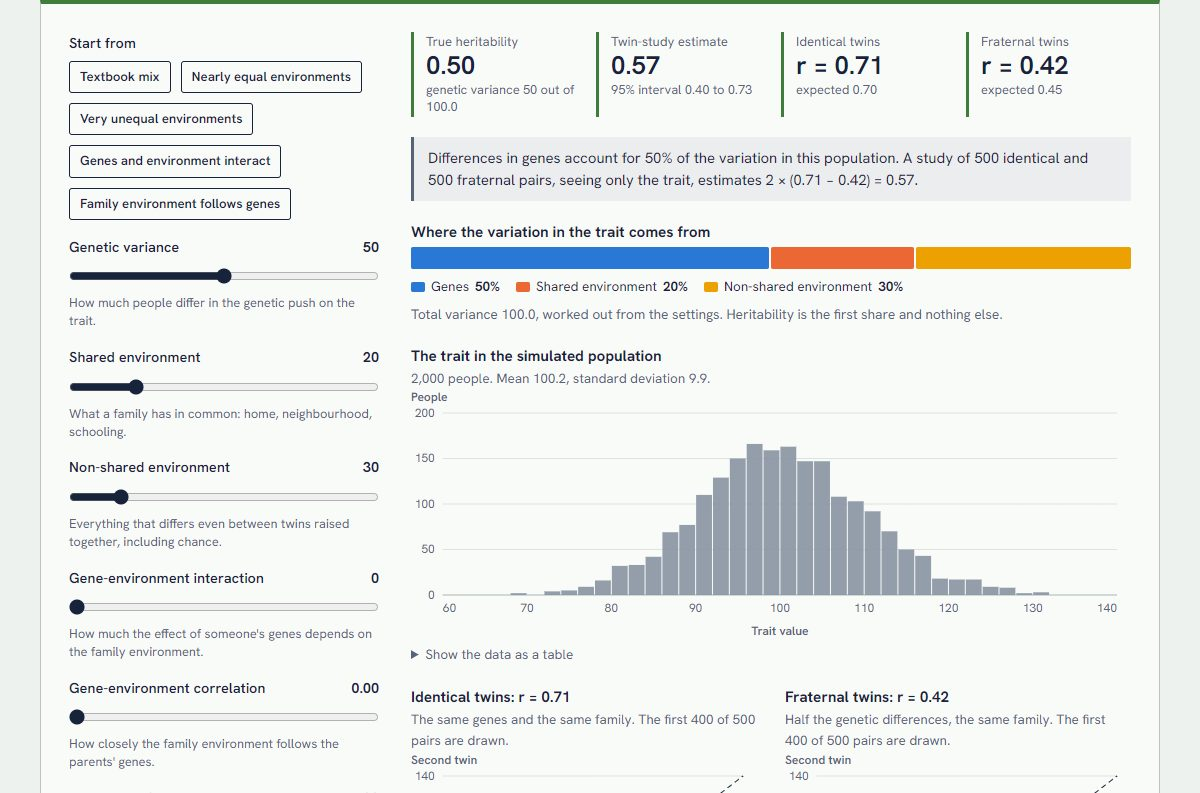
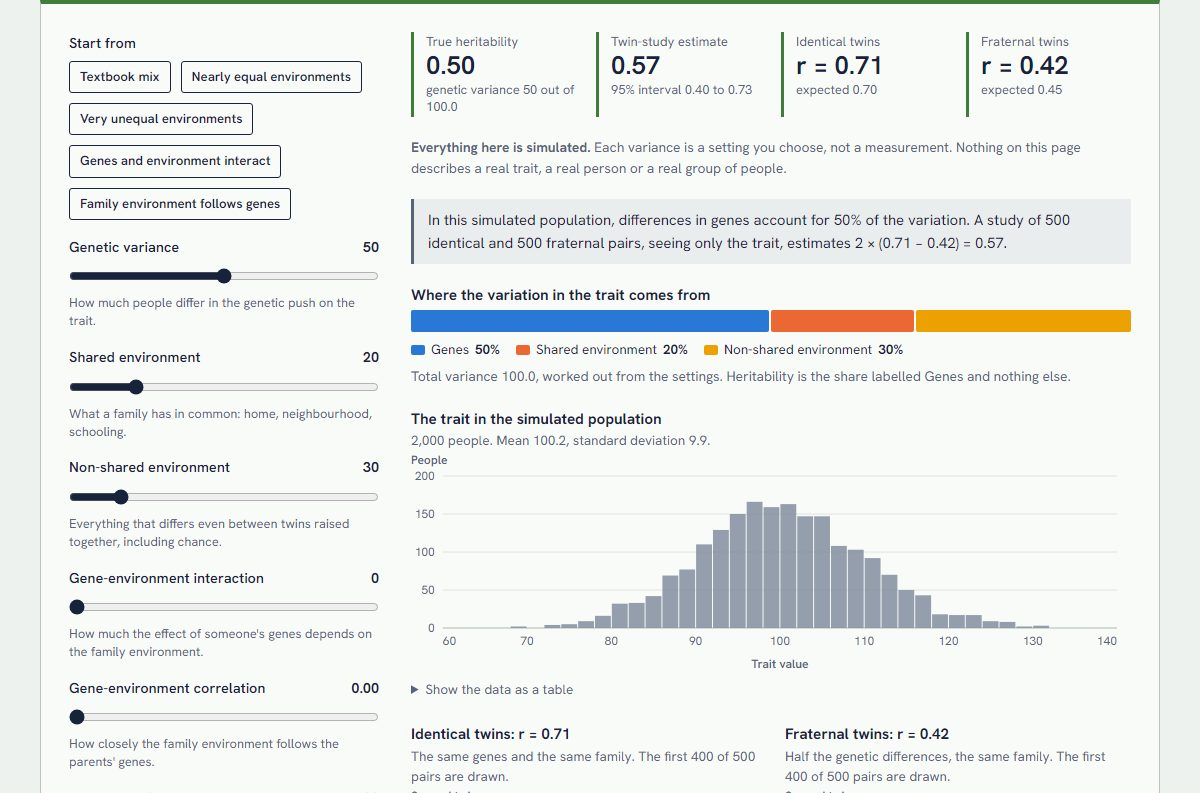
Review project 26: state that everything is simulated, phone table, exact notes

diff --git a/365projects/26/index.html b/365projects/26/index.html
@@ -15,7 +15,9 @@
     .split-bar span { display: block; min-width: 2px; border-radius: 2px; }
     .stack { display: grid; grid-template-columns: minmax(0, 1fr); gap: 10px; }
     .stack:empty { display: none; }
-    .people th, .people th.num { white-space: normal; vertical-align: bottom; line-height: 1.25; }
+    .people td:first-child { font-weight: 600; }
+    .people tbody tr:last-child td { border-top: 1.5px solid var(--ink); font-weight: 650; }
+    @media (max-width: 480px) { .people th, .people td { padding: 6px 4px; font-size: 0.84rem; } }
     .soil { display: grid; grid-template-columns: minmax(0, 1fr); gap: 16px; padding-top: 24px; border-top: 1px solid var(--rule); }
     .soil > p { max-width: 86ch; }
   </style>
@@ -38,10 +40,10 @@
 
     <section class="p-sec">
       <h2>The idea</h2>
-      <p>Francis Galton set "nature and nurture" side by side in the 1870s and suggested that twins could be used to tell them apart. The question most people then want to ask is how much of a trait is due to genes and how much to environment. For one person the question has no answer. Someone's height is not four parts genes and one part food, any more than the area of a rectangle is four parts length and one part width: both are needed for there to be any height at all. What can be asked is a question about differences. Across a population, how much of the variation in a trait goes with variation in genes? That share is called heritability, and it comes from R. A. Fisher's 1918 paper, which introduced the word variance and the idea of dividing it into parts with different causes.</p>
+      <p>Francis Galton set "nature and nurture" side by side in the 1870s and suggested that twins could be used to tell them apart. The question most people then want to ask is how much of a trait is due to genes and how much to environment. For one person the question has no answer. Someone's height is not four parts genes and one part food, any more than the area of a rectangle is four parts length and one part width: both are needed for there to be any height at all. What can be asked is a question about differences. Across a population, how much of the variation in a trait goes with variation in genes? That share is called heritability. The idea behind it comes from R. A. Fisher's 1918 paper, which introduced the word variance and the practice of dividing it into parts with different causes.</p>
       <p>The classic way to estimate it uses two kinds of twins. Identical twins have the same genes. Fraternal twins share, on average, half of the genetic differences that vary between people. If both kinds share their family surroundings to the same degree, then whatever makes identical twins more alike than fraternal twins must be genetic, and doubling the gap between the two correlations gives the heritability. A large 2015 review of fifty years of such studies put the average across human traits at about a half.</p>
-      <p>The number is real, and it is narrow, and it is misread in at least four ways. It is not a property of a trait but of a population in a particular range of environments: make environments more alike and heritability rises, make them more unequal and it falls, with no gene altered. It describes the spread across people, not the make-up of any one of them. It says nothing about why two groups differ on average, which is Richard Lewontin's point about seed sown in two soils: inside each field the differences between plants can be almost wholly genetic while the difference between the fields is wholly the soil. And it is not a measure of how fixed a trait is. Phenylketonuria is caused by a single gene, and a diet started in infancy prevents most of the harm. Height is among the most heritable of human traits, yet average heights in many countries rose by several centimetres over the twentieth century as food and health improved.</p>
-      <p>These points matter outside the classroom because heritability figures are quoted in arguments about schooling, health, inequality and differences between groups, often as if they settled what can be changed or who is responsible. They do not, in either direction: a high figure does not show that a gap between groups is genetic, and it does not show that it is environmental. This page takes no position on any real trait. It builds populations where the truth is known, so that what a heritability estimate can and cannot recover is visible.</p>
+      <p>The number is real, and it is narrow, and it is misread in at least four ways. It is not a property of a trait but of a population in a particular range of environments: make environments more alike and heritability rises, make them more unequal and it falls, with no gene altered. It describes the spread across people, not the make-up of any one of them. It says nothing about why two groups differ on average, which is Richard Lewontin's point about two handfuls of seed from one sack, one raised on a rich diet and one on a poor one (told on this page as two fields): inside each batch the differences between plants can be almost wholly genetic while the difference between the batches is wholly the feeding. And it is not a measure of how fixed a trait is. Phenylketonuria is caused by a single gene, and a diet started in infancy prevents most of the harm. Height is among the most heritable of human traits, yet average heights in many countries rose by several centimetres over the twentieth century as food and health improved.</p>
+      <p>These points matter outside the classroom because heritability figures are quoted in arguments about schooling, health, inequality and differences between groups, often as if they settled what can be changed or who is responsible. They do not, in either direction: a high figure does not show that a gap between groups is genetic, and it does not show that it is environmental. This page takes no position on any real trait or any real group. It builds made-up populations where the truth is known, so that what a heritability estimate can and cannot recover is visible.</p>
     </section>
 
     <section class="p-sec">
@@ -56,27 +58,29 @@
 
       <h3>The true decomposition</h3>
       <p>Because the page made the population, it knows where the variance comes from without estimating anything:</p>
-      <p class="eq"><var>V</var><sub>P</sub> = <var>V</var><sub>A</sub> + <var>V</var><sub>C</sub> + <var>V</var><sub>E</sub> + <var>V</var><sub>I</sub>(1 + <var>ρ</var>²) + 2<var>ρ</var>√(<var>V</var><sub>A</sub><var>V</var><sub>C</sub>)</p>
+      <p class="eq"><var>V</var><sub>P</sub> = <var>V</var><sub>A</sub> + <var>V</var><sub>C</sub> + <var>V</var><sub>E</sub><br>&nbsp; &nbsp; + <var>V</var><sub>I</sub>(1 + <var>ρ</var>²) + 2<var>ρ</var>√(<var>V</var><sub>A</sub><var>V</var><sub>C</sub>)</p>
       <p class="eq"><var>h</var>² = <var>V</var><sub>A</sub> / <var>V</var><sub>P</sub></p>
       <p>The fourth term is the variance of the interaction and the fifth is twice the covariance of genes and family environment. Neither is "genetic" or "environmental": the bar in the tool shows them as their own segments. With both set to zero the bar has three parts and heritability is the first.</p>
 
       <h3>The twin study</h3>
       <p>The simulated researcher sees only trait values for <var>n</var> identical and <var>n</var> fraternal pairs. For each kind the page computes the intraclass correlation, which treats the two twins of a pair symmetrically:</p>
-      <p class="eq"><var>r</var> = Σ (<var>x</var><sub>1</sub> − <var>x̄</var>)(<var>x</var><sub>2</sub> − <var>x̄</var>) / ( ½ Σ [ (<var>x</var><sub>1</sub> − <var>x̄</var>)² + (<var>x</var><sub>2</sub> − <var>x̄</var>)² ] )</p>
+      <p class="eq"><var>r</var> = Σ (<var>x</var><sub>1</sub> − <var>x̄</var>)(<var>x</var><sub>2</sub> − <var>x̄</var>)<br>&nbsp; &nbsp; ÷ ( ½ Σ [ (<var>x</var><sub>1</sub> − <var>x̄</var>)² + (<var>x</var><sub>2</sub> − <var>x̄</var>)² ] )</p>
       <p>with <var>x̄</var> the mean of all twins of that kind. In the plain model identical twins share <var>G</var> and <var>C</var>, so their expected correlation is (<var>V</var><sub>A</sub> + <var>V</var><sub>C</sub>)/<var>V</var><sub>P</sub>, and fraternal twins share half of the genetic variance, giving (½<var>V</var><sub>A</sub> + <var>V</var><sub>C</sub>)/<var>V</var><sub>P</sub>. Falconer's formulas follow by subtraction:</p>
-      <p class="eq"><var>h</var>² = 2(<var>r</var><sub>MZ</sub> − <var>r</var><sub>DZ</sub>) &nbsp;&nbsp; <var>c</var>² = 2<var>r</var><sub>DZ</sub> − <var>r</var><sub>MZ</sub> &nbsp;&nbsp; <var>e</var>² = 1 − <var>r</var><sub>MZ</sub></p>
-      <p>The interval shown is the estimate plus or minus 1.96 standard errors, taking each correlation to have variance (1 − <var>r</var>²)²/<var>n</var>, so the standard error of <var>h</var>² is 2√[ ((1 − <var>r</var><sub>MZ</sub>²)² + (1 − <var>r</var><sub>DZ</sub>²)²) / <var>n</var> ]. A test compares this with the spread of the estimate across 400 simulated studies. The doubling is what makes twin estimates noisy: with 500 pairs of each kind the interval is about 0.17 either side.</p>
+      <p class="eq"><var>h</var>² = 2(<var>r</var><sub>MZ</sub> − <var>r</var><sub>DZ</sub>)<br><var>c</var>² = 2<var>r</var><sub>DZ</sub> − <var>r</var><sub>MZ</sub><br><var>e</var>² = 1 − <var>r</var><sub>MZ</sub></p>
+      <p>The interval shown is the estimate plus or minus 1.96 standard errors, taking each correlation to have variance (1 − <var>r</var>²)²/<var>n</var>, so the standard error of <var>h</var>² is 2√[ ((1 − <var>r</var><sub>MZ</sub>²)² + (1 − <var>r</var><sub>DZ</sub>²)²) / <var>n</var> ]. A test compares this with the spread of the estimate across 400 simulated studies. The interval is a normal approximation, so in a small study it can run below 0 or above 1. The doubling is what makes twin estimates noisy: with 500 pairs of each kind the interval is about 0.17 either side.</p>
 
       <h3>What interaction and correlation do to the estimate</h3>
-      <p>Working the same subtraction through the full model gives</p>
-      <p class="eq">2(<var>r</var><sub>MZ</sub> − <var>r</var><sub>DZ</sub>) → (<var>V</var><sub>A</sub> + <var>V</var><sub>I</sub>) / <var>V</var><sub>P</sub></p>
-      <p>Identical twins share the interaction completely and fraternal twins share about half of it, which is the pattern genes themselves show, so the twin method counts interaction with the shared environment as genetic. The covariance term is shared equally by both kinds of twin and drops out of the subtraction, to reappear in the estimate of shared environment. The tool states both mismatches when they occur, and the tests check the algebra against simulated studies of 50,000 pairs.</p>
+      <p>In the full model identical twins share everything except <var>E</var>, and fraternal twins share half of <var>V</var><sub>A</sub>, all of <var>V</var><sub>C</sub>, all of the covariance, and <var>V</var><sub>I</sub>(½ + <var>ρ</var>²) of the interaction variance <var>V</var><sub>I</sub>(1 + <var>ρ</var>²):</p>
+      <p class="eq"><var>r</var><sub>MZ</sub> = (<var>V</var><sub>P</sub> − <var>V</var><sub>E</sub>) / <var>V</var><sub>P</sub><br><var>r</var><sub>DZ</sub> = ( ½<var>V</var><sub>A</sub> + <var>V</var><sub>C</sub> + 2<var>ρ</var>√(<var>V</var><sub>A</sub><var>V</var><sub>C</sub>)<br>&nbsp; &nbsp; + <var>V</var><sub>I</sub>(½ + <var>ρ</var>²) ) / <var>V</var><sub>P</sub></p>
+      <p>Working the same subtractions through gives what the twin estimates settle on as the study grows:</p>
+      <p class="eq">2(<var>r</var><sub>MZ</sub> − <var>r</var><sub>DZ</sub>) → (<var>V</var><sub>A</sub> + <var>V</var><sub>I</sub>) / <var>V</var><sub>P</sub><br>2<var>r</var><sub>DZ</sub> − <var>r</var><sub>MZ</sub> → ( <var>V</var><sub>C</sub> + 2<var>ρ</var>√(<var>V</var><sub>A</sub><var>V</var><sub>C</sub>)<br>&nbsp; &nbsp; + <var>ρ</var>²<var>V</var><sub>I</sub> ) / <var>V</var><sub>P</sub></p>
+      <p>Identical twins share the interaction completely and fraternal twins share half of it when <var>ρ</var> is zero, which is the pattern genes themselves show, so the twin method counts interaction with the shared environment as genetic. The covariance term is shared equally by both kinds of twin and drops out of the first subtraction, to reappear in the estimate of shared environment, and when <var>ρ</var> is above zero a part <var>ρ</var>²<var>V</var><sub>I</sub> of the interaction goes there with it. This agrees with the standard account of the twin design: in Purcell's summary, interaction between genes and shared environment "acts like" genes and correlation between them "acts like" shared environment. The tool states both mismatches when they occur, and the tests check the algebra against simulated studies of 50,000 pairs.</p>
 
       <h3>The environment chart</h3>
       <p>The line plots <var>h</var>² = <var>V</var><sub>A</sub>/<var>V</var><sub>P</sub> as the non-shared environmental variance runs from 0 to 200 with every other setting held where it is. The dot is the current population. Nothing genetic changes along the line.</p>
 
       <h3>The two fields</h3>
-      <p>Two thousand plants grow in each field. A plant's height is 100 plus a genetic value with variance <var>h</var>² × 100 plus a soil-and-chance value with variance (1 − <var>h</var>²) × 100, and plants in the poor field are shorter on average by the chosen gap. The last slider decides how the gap is caused: a share <var>s</var> of it is subtracted from the genetic values of the poor field's seed and the rest from its environment. The heights are the same numbers whatever <var>s</var> is, since only the sum is ever observed, and so are the heritabilities inside each field. With <var>s</var> at zero this is Lewontin's example: the same seed in both fields.</p>
+      <p>Two thousand plants grow in each field. A plant's height is 100 plus a genetic value with variance <var>h</var>² × 100 plus a soil-and-chance value with variance (1 − <var>h</var>²) × 100, and plants in the poor field are shorter on average by the chosen gap. The last slider decides how the gap is caused: a share <var>s</var> of it is subtracted from the genetic values of the poor field's seed and the rest from its environment. The heights are the same numbers whatever <var>s</var> is, since only the sum is ever observed, and so are the heritabilities inside each field. To keep chance out of the comparison, the plants in the poor field are given the same genetic values as the plants in the rich field before the shift, so the genetic part of the gap is exactly <var>s</var> times the gap. With <var>s</var> at zero this is Lewontin's example, with fields standing in for his two batches of seed raised on different nutrients. In his version every plant in a batch was fed alike, which is the slider at 1.00.</p>
     </section>
 
     <section class="p-sec">
@@ -84,7 +88,7 @@
       <ul>
         <li><strong>Anything about a real trait.</strong> Every variance here is a slider. The page shows what follows from a set of assumptions, not what is true of height, health, schooling or anything else in people.</li>
         <li><strong>How much of one person's trait is genetic.</strong> Heritability is a ratio of variances across a population. The table of five people shows why it does not carry over: in one person the pushes can cancel, and with interaction there is no way to split them at all.</li>
-        <li><strong>Why two groups differ.</strong> Heritability inside groups is compatible with a gap between them that is entirely environmental, entirely genetic, or any mixture. The two-field panel produces identical data in all three cases.</li>
+        <li><strong>Why two groups differ.</strong> Heritability inside groups is compatible with a gap between them that is entirely environmental, entirely genetic, or any mixture. The two-field panel produces identical data in all three cases. It is a model of plants, in which the cause of the gap is a slider, and it is not evidence about any difference between groups of people.</li>
         <li><strong>Whether a trait can be changed.</strong> The figure describes the environments that happened to exist in the population measured. It is silent about environments nobody in it experienced, such as a new diet, treatment or school.</li>
         <li><strong>Whether real twin studies meet their assumptions.</strong> Here identical and fraternal twins share their surroundings equally, parents pair at random and genetic effects add up, because the simulation was written that way. In real data each of these can fail and bias the estimate, and none can be checked from twin correlations alone.</li>
         <li><strong>What the environment is.</strong> "Shared" and "non-shared" are labels for variance, not causes. The non-shared part includes measurement error and chance in development. A variance component does not name anything that could be acted on.</li>
@@ -107,14 +111,16 @@
       <h2>Sources</h2>
       <ul class="refs">
         <li>Galton, F. (1874). <em>English Men of Science: Their Nature and Nurture</em>. Macmillan.</li>
-        <li>Fisher, R. A. (1918). The correlation between relatives on the supposition of Mendelian inheritance. <em>Transactions of the Royal Society of Edinburgh</em>, 52, 399-433.</li>
+        <li>Galton, F. (1875). The history of twins, as a criterion of the relative powers of nature and nurture. <em>Fraser's Magazine</em>, 12, 566-576.</li>
+        <li>Fisher, R. A. (1918). The correlation between relatives on the supposition of Mendelian inheritance. <em>Transactions of the Royal Society of Edinburgh</em>, 52(2), 399-433.</li>
         <li>Falconer, D. S. (1960). <em>Introduction to Quantitative Genetics</em>. Oliver and Boyd.</li>
-        <li>Lewontin, R. C. (1970). Race and intelligence. <em>Bulletin of the Atomic Scientists</em>, 26(3). The source of the two-soils example.</li>
-        <li>Lewontin, R. C. (1974). The analysis of variance and the analysis of causes. <em>American Journal of Human Genetics</em>, 26, 400-411.</li>
+        <li>Lewontin, R. C. (1970). Race and intelligence. <em>Bulletin of the Atomic Scientists</em>, 26(3), 2-8. The source of the example of one stock of seed raised in a rich and a poor environment, retold here as two fields.</li>
+        <li>Lewontin, R. C. (1974). The analysis of variance and the analysis of causes. <em>American Journal of Human Genetics</em>, 26(3), 400-411.</li>
         <li>Purcell, S. (2002). Variance components models for gene-environment interaction in twin analysis. <em>Twin Research</em>, 5(6), 554-571.</li>
-        <li>Polderman, T. J. C., and others (2015). Meta-analysis of the heritability of human traits based on fifty years of twin studies. <em>Nature Genetics</em>, 47, 702-709.</li>
+        <li>Polderman, T. J. C., and others (2015). Meta-analysis of the heritability of human traits based on fifty years of twin studies. <em>Nature Genetics</em>, 47(7), 702-709. The source of "about a half": 49% across 17,804 traits.</li>
         <li>Turkheimer, E. (2000). Three laws of behavior genetics and what they mean. <em>Current Directions in Psychological Science</em>, 9(5), 160-164.</li>
-        <li>Visscher, P. M., Hill, W. G., and Wray, N. R. (2008). Heritability in the genomics era: concepts and misconceptions. <em>Nature Reviews Genetics</em>, 9, 255-266.</li>
+        <li>Visscher, P. M., Hill, W. G., and Wray, N. R. (2008). Heritability in the genomics era: concepts and misconceptions. <em>Nature Reviews Genetics</em>, 9(4), 255-266.</li>
+        <li>NCD Risk Factor Collaboration (2016). A century of trends in adult human height. <em>eLife</em>, 5, e13410.</li>
         <li>All data on this page are simulated in the browser.</li>
       </ul>
     </section>

diff --git a/365projects/26/app.js b/365projects/26/app.js
@@ -31,7 +31,7 @@ const sliders = {
   ve: vary("ve", "Non-shared environment", 200, "Everything that differs even between twins raised together, including chance."),
   vi: vary("vi", "Gene-environment interaction", 100, "How much the effect of someone's genes depends on the family environment."),
   rge: vary("rge", "Gene-environment correlation", RGE_MAX, "How closely the family environment follows the parents' genes.", 0.05, two),
-  pairs: vary("pairs", "Twin pairs of each kind", 5000, "The size of the simulated twin study.", 50),
+  pairs: vary("pairs", "Twin pairs of each kind", 5000, null, 50),
 };
 sliders.pairs.input.min = 50;
 const seedField = numberField({ label: "Seed", min: 0, max: 999999, step: 1, value: state.seed, hint: "The same seed always gives the same population." });
@@ -63,10 +63,12 @@ const message = el("div", { class: "stack", role: "status" });
 const splitBox = el("div");
 const histBox = el("div"), mzBox = el("div"), dzBox = el("div"), curveBox = el("div"), peopleBox = el("div", { class: "stack" });
 const body = el("div", { class: "out" }, splitBox, histBox, el("div", { class: "grid2" }, mzBox, dzBox), curveBox, peopleBox);
-const out = el("div", { class: "out" }, el("div", { class: "stats" }, sTrue.el, sEst.el, sMZ.el, sDZ.el), message, body);
+const caveat = el("p", { class: "small muted" }, el("strong", { text: "Everything here is simulated. " }),
+  "Each variance is a setting you choose, not a measurement. Nothing on this page describes a real trait, a real person or a real group of people.");
+const out = el("div", { class: "out" }, el("div", { class: "stats" }, sTrue.el, sEst.el, sMZ.el, sDZ.el), caveat, message, body);
 
 const soilSliders = [
-  slider({ label: "Heritability inside each field", min: 0.1, max: 1, step: 0.05, value: soil.h2, format: two, hint: "How far a plant's height follows its parents' within one field.", onInput: (v) => { soil.h2 = v; drawSoil(); } }),
+  slider({ label: "Heritability inside each field", min: 0.1, max: 1, step: 0.05, value: soil.h2, format: two, hint: "The share of the differences in height inside one field that goes with differences in the seed.", onInput: (v) => { soil.h2 = v; drawSoil(); } }),
   slider({ label: "Gap between the field averages", min: 0, max: 30, step: 1, value: soil.gap, format: (v) => `${v} units`, onInput: (v) => { soil.gap = v; drawSoil(); } }),
   slider({ label: "Share of the gap that comes from the seed", min: 0, max: 1, step: 0.05, value: soil.share, format: (v) => fmt.pct(v, 0), hint: "0% is Lewontin's case: the same seed in both fields, and the whole gap is soil.", onInput: (v) => { soil.share = v; drawSoil(); } }),
 ];
@@ -81,11 +83,11 @@ const soilPanel = el("div", { class: "soil" },
 
 $("#app").append(el("div", { class: "tool-grid" }, controls, out), soilPanel);
 
-const hist = chart(histBox, { series: [], height: 250 });
-const mzChart = chart(mzBox, { series: [], height: 300 });
-const dzChart = chart(dzBox, { series: [], height: 300 });
-const curveChart = chart(curveBox, { series: [], height: 270 });
-const soilChart = chart(soilBox, { series: [], height: 280 });
+const hist = chart(histBox, { series: [], height: 220 });
+const mzChart = chart(mzBox, { series: [], height: 260 });
+const dzChart = chart(dzBox, { series: [], height: 260 });
+const curveChart = chart(curveBox, { series: [], height: 240 });
+const soilChart = chart(soilBox, { series: [], height: 250 });
 
 /* ---------- the population and its twin study ---------- */
 function drawSplit(t) {
@@ -96,7 +98,7 @@ function drawSplit(t) {
     el("div", { class: "split-bar", role: "img", "aria-label": parts.map(text).join(", ") },
       parts.map((p) => el("span", { style: { width: `${(p.value / t.vp) * 100}%`, background: p.color }, title: text(p) }))),
     el("div", { class: "chart-legend" }, parts.map((p) => el("span", {}, el("i", { style: { background: p.color } }), `${p.label} `, el("strong", { text: fmt.pct(p.value / t.vp, 0) })))),
-    el("p", { class: "small muted", text: `Total variance ${fmt.num(t.vp, 1)}, worked out from the settings. Heritability is the first share and nothing else.` }));
+    el("p", { class: "small muted", text: `Total variance ${fmt.num(t.vp, 1)}, worked out from the settings. Heritability is the share labelled Genes and nothing else.` }));
 }
 
 function update() {
@@ -116,11 +118,14 @@ function update() {
   sMZ.set(`r = ${two(est.rMZ)}`, `expected ${two(t.rMZ)}`);
   sDZ.set(`r = ${two(est.rDZ)}`, `expected ${two(t.rDZ)}`);
 
-  const lines = [`Differences in genes account for ${fmt.pct(t.h2, 0)} of the variation in this population. A study of ${fmt.int(n)} identical and ${fmt.int(n)} fraternal pairs, seeing only the trait, estimates 2 × (${two(est.rMZ)} − ${two(est.rDZ)}) = ${two(est.h2)}.`];
+  const lines = [`In this simulated population, differences in genes account for ${fmt.pct(t.h2, 0)} of the variation. A study of ${fmt.int(n)} identical and ${fmt.int(n)} fraternal pairs, seeing only the trait, estimates 2 × (${two(est.rMZ)} − ${two(est.rDZ)}) = ${two(est.h2)}.`];
   if (est.h2 < 0 || est.h2 > 1) lines.push("An estimate outside 0 to 1 is sampling error, which is common in small twin studies. Add more pairs.");
+  else if (est.lo < 0 || est.hi > 1) lines.push("The interval is a rough one, the estimate plus or minus 1.96 standard errors, so it can run below 0 or above 1 although a share of variance cannot.");
   const notes = [note("", lines.join(" "))];
-  if (Math.abs(t.falconer - t.h2) > 0.005) notes.push(note("warn", `With unlimited twins the estimate would settle on ${two(t.falconer)}, not the true ${two(t.h2)}. Identical twins share the interaction in full and fraternal twins share about half of it, the same pattern as genes, so the twin method counts it as genetic.`));
-  if (state.rge > 0 && state.va > 0 && state.vc > 0) notes.push(note("warn", `${fmt.pct(t.components.covariance / t.vp, 0)} of the variation comes from genes and family environment moving together. It is neither one nor the other. The twin method files it under shared environment: its estimate of that share is ${two(est.c2)}, against a true ${two(state.vc / t.vp)}.`));
+  // Of the interaction variance vi (1 + rge^2), fraternal twins share vi (1/2 + rge^2): half of it when rge is 0.
+  const dzShare = (0.5 + state.rge ** 2) / (1 + state.rge ** 2);
+  if (Math.abs(t.falconer - t.h2) > 0.005) notes.push(note("warn", `With unlimited twins the estimate would settle on ${two(t.falconer)}, not the true ${two(t.h2)}. Identical twins share the interaction in full and fraternal twins share ${state.rge > 0 ? fmt.pct(dzShare, 0) : "half"} of it, ${state.rge > 0 ? "close to" : "which is"} the pattern genes show, so the twin method counts ${state.rge > 0 ? "most of it" : "it"} as genetic.`));
+  if (state.rge > 0 && state.va > 0 && state.vc > 0) notes.push(note("warn", `${fmt.pct(t.components.covariance / t.vp, 0)} of the variation comes from genes and family environment moving together. It is neither one nor the other. Both kinds of twin share it equally, so the twin method files it under shared environment${state.vi > 0 ? `, along with the part of the interaction that both kinds of twin share equally (${fmt.pct((state.vi * state.rge ** 2) / t.vp, 0)} of the variation)` : ""}. With unlimited twins its estimate of the shared-environment share would settle on ${two(t.c2)}, against a true ${two(state.vc / t.vp)}. This study's estimate is ${two(est.c2)}.`));
   message.replaceChildren(...notes);
   drawSplit(t);
 
@@ -161,19 +166,16 @@ function update() {
 
   // A few individuals.
   const dev = (v) => fmt.signed(v, 1);
+  const parts = [["G", "Genes", dev], ["C", "Shared environment", dev], ["E", "Non-shared environment", dev],
+    ...(state.vi > 0 ? [["I", "Interaction", dev]] : []), ["P", "Trait value", (v) => fmt.num(v, 1)]];
   const people = table({
-      caption: "Five people from this population",
-      columns: [
-        { key: "who", label: "Person" }, { key: "G", label: "Genes", num: true, format: dev }, { key: "C", label: "Shared environment", num: true, format: dev },
-        { key: "E", label: "Non-shared environment", num: true, format: dev },
-        ...(state.vi > 0 ? [{ key: "I", label: "Interaction", num: true, format: dev }] : []),
-        { key: "P", label: "Trait value", num: true, format: (v) => fmt.num(v, 1) },
-      ],
-      rows: sim.people.map((p, i) => ({ who: `${i + 1}`, ...p })),
-    });
+    caption: "Five simulated people from this population",
+    columns: [{ key: "part", label: "Person" }, ...sim.people.map((_, i) => ({ key: `p${i}`, label: `${i + 1}`, num: true }))],
+    rows: parts.map(([key, label, format]) => ({ part: label, ...Object.fromEntries(sim.people.map((p, i) => [`p${i}`, format(p[key])])) })),
+  });
   people.classList.add("people");
   peopleBox.replaceChildren(people,
-    el("p", { class: "small muted", text: `Each row shows one person's pushes above or below the average of 100. Heritability is ${two(t.h2)} for the population, but no row is "${fmt.pct(t.h2, 0)} genetic". In one person the pushes can point opposite ways, or the genetic push can be larger than the whole gap from the average${state.vi > 0 ? ", and the interaction column belongs to neither side" : ""}. The figure describes the spread across people, not the make-up of anyone.` }));
+    el("p", { class: "small muted", text: `Each column shows one simulated person's pushes above or below the average of 100, and the trait value they add up to. Heritability is ${two(t.h2)} for the population, but no column is "${fmt.pct(t.h2, 0)} genetic". In one person the pushes can point opposite ways, or the genetic push can be larger than the whole gap from the average${state.vi > 0 ? ", and the interaction row belongs to neither side" : ""}. The figure describes the spread across people, not the make-up of anyone.` }));
   drawSoil();
 }
 
@@ -198,7 +200,7 @@ function drawSoil() {
     marks: [{ type: "vline", x: s.rich.mean, text: "rich" }, { type: "vline", x: s.poor.mean, text: "poor", dy: 14 }],
   });
   soilNote.replaceChildren(note("", el("strong", { text: "Move the last slider. " }),
-    `The chart and the first three numbers do not change at all, because the plants are exactly the same plants: with the slider at ${fmt.pct(soil.share, 0)}, ${fmt.num(s.geneticGap, 1)} units of the gap are in the seed and ${fmt.num(s.gap - s.geneticGap, 1)} in the soil, and nothing measured inside either field shows it. Heritability of ${two(s.rich.h2)} inside the fields is equally at home with a gap that is all soil, all seed or anything between. Telling them apart takes a different experiment, such as sowing each field's seed in the other's soil.`));
+    `The chart and the first three numbers do not change at all, because the plants are exactly the same plants: with the slider at ${fmt.pct(soil.share, 0)}, ${fmt.num(s.geneticGap, 1)} units of the gap are in the seed and ${fmt.num(s.gap - s.geneticGap, 1)} in the soil, and nothing measured inside either field shows it. Heritability of ${two(s.rich.h2)} inside the fields is equally at home with a gap that is all soil, all seed or anything between. Telling them apart takes a different experiment, such as sowing each field's seed in the other's soil. The panel is about plants in a model: it shows what heritability inside groups cannot settle, and it is not evidence about a difference between any real groups.`));
 }
 
 update();
